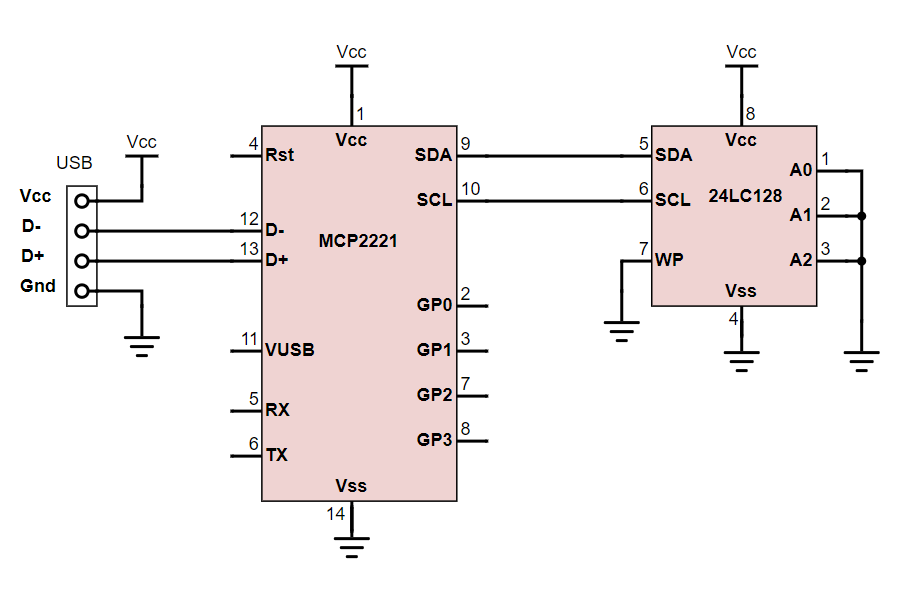
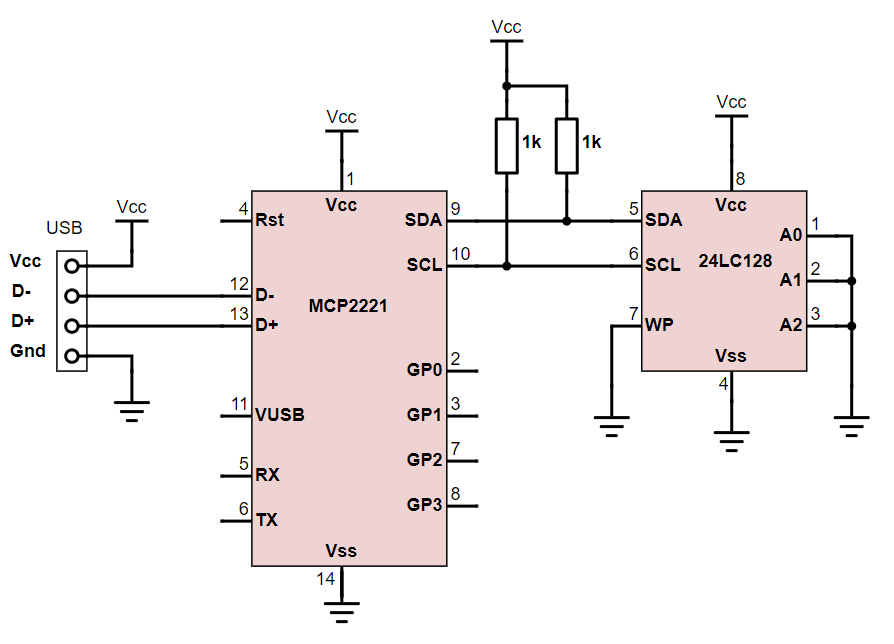
EEPROM example.

Changed region(s): [[0.0, 0.0305, 0.9664, 0.9763], [0.3322, 0.4576, 0.453, 0.4881]]

diff --git a/docs/source/examples.rst b/docs/source/examples.rst
@@ -6,10 +6,11 @@ Examples
 Getting started
 ---------------
 
-Minimal components layout. This is not the recommended design, but it should work. See MCP2221's datasheet for more information.
+This is the minimal components layout. 
 
 .. figure:: img/sch_getting_started.png
-   :scale: 50%
+
+It is not the recommended design, but it should work. See MCP2221's datasheet for more information.
 
 To check the communication, import ``EasyMCP2221`` and create a new :class:`Device`. 
 
@@ -145,9 +146,6 @@ Maximum update rate is 500Hz. High frequency output noise can be greatly reduced
 
 .. figure:: img/DAC_sin_5Hz_lowpass.png
 
-
-Code:
-
 Notice the usage of ``time.perf_counter()`` instead of ``sleep`` to get a more or less constant rate in a multitask operating system. 
 
 .. literalinclude:: ../../examples/DAC_sin.py
@@ -201,15 +199,22 @@ Code:
 I2C bus
 ----------
 
+
+To make these examples work, you need to get an EEPROM (e.g. 24LC128) and connect it properly to the SCA and SCL lines, as well as power supply.
+
+.. figure:: img/sch_eeprom.png
+
+This is it in the breadboard. Don't forget to connect *WP* pin to either ``Vcc`` or ``Gnd``.
+
+.. figure:: img/brd_eeprom.png
+   :scale: 50%
+
+
+
 I2C bus scan
 ~~~~~~~~~~~~~~~~~~~~~~~~~~~~~~~~
 
 We will use :func:`I2C_read` to send a read command to any possible I2C address in the bus. The moment we get an acknowledge, we know there is some slave connected.
-
-To make this example work, you need to get an EEPROM (e.g. 24LC128) and connect it properly to the SCA and SCL lines, as well as power supply.
-
-.. figure:: img/sch_eeprom.png
-
 
 .. literalinclude:: ../../examples/I2C_scan.py
 
